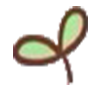
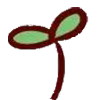
修改按钮特效

diff --git a/src/ui/gameButton.java b/src/ui/gameButton.java
@@ -22,7 +22,10 @@ public class gameButton extends MouseAdapter {
 	ImageIcon iconStartEntered = new ImageIcon("Graphics/Button/开始（大）.png");
 	ImageIcon iconRuleEntered = new ImageIcon("Graphics/Button/游戏规则（大）.png");
 	ImageIcon iconTeamEntered = new ImageIcon("Graphics/Button/制作团队（大）.png");
-	ImageIcon iconBack = new ImageIcon("Graphics/Button/退出.png");
+	ImageIcon iconBack = new ImageIcon("Graphics/Button/退出按钮 （小）.png");
+	ImageIcon iconBackEntered = new ImageIcon("Graphics/Button/退出按钮（大）.png");
+	ImageIcon iconReStart = new ImageIcon("Graphics/Button/重新开始（小）.png");
+	ImageIcon iconReStartEntered= new ImageIcon("Graphics/Button/重新开始 （大）.png");
 
 	public JButton startButton;
 	public JButton ruleButton;
@@ -94,25 +97,27 @@ public class gameButton extends MouseAdapter {
  * mapPanel上的按钮
  * @return
  */
-	//TODO 返回主界面 原图标分辨率低
+	//返回主界面
 	public JButton createStartBackButton() {
 		startBackButton = new JButton();
 		startBackButton.setBorder(null);
-		startBackButton.setBounds(1000, 400, 224, 336);
-//		startBackButton.setContentAreaFilled(false);
-//		startBackButton.setBorderPainted(false);
+		startBackButton.setBounds(950,550,250,150);
+		startBackButton.setContentAreaFilled(false);
+		startBackButton.setBorderPainted(false);
 		startBackButton.setIcon(iconBack);
+		startBackButton.setRolloverIcon(iconBackEntered);
 		startBackButton.addMouseListener(this);
 		return startBackButton;
 	}
-	//TODO 重新开始 加图标
+	//重新开始
 	public JButton createReStartButton() {
-		reStartButton = new JButton("重新开始");
+		reStartButton = new JButton();
 		reStartButton.setBorder(null);
-		reStartButton.setBounds(1000, 100, 300, 300);
+		reStartButton.setBounds(950,400,250,150);
 		reStartButton.setContentAreaFilled(false);
 		reStartButton.setBorderPainted(false);
-//		reStartButton.setIcon(iconBack);
+		reStartButton.setIcon(iconReStart);
+		reStartButton.setRolloverIcon(iconReStartEntered);
 		reStartButton.addMouseListener(this);
 		return reStartButton;
 	}
@@ -136,10 +141,11 @@ public class gameButton extends MouseAdapter {
 	public JButton createRuleBackButton() {
 		ruleBackButton = new JButton();
 		ruleBackButton.setBorder(null);
-		ruleBackButton.setBounds(1000, 50, 224, 336);
+		ruleBackButton.setBounds(0, 550, 250, 150);
 		ruleBackButton.setContentAreaFilled(false);
 		ruleBackButton.setBorderPainted(false);
 		ruleBackButton.setIcon(iconBack);
+		ruleBackButton.setRolloverIcon(iconBackEntered);
 		ruleBackButton.addMouseListener(this);
 		return ruleBackButton;
 	}
@@ -150,10 +156,11 @@ public class gameButton extends MouseAdapter {
 	public JButton createTeamBackButton() {
 		teamBackButton = new JButton();
 		teamBackButton.setBorder(null);
-		teamBackButton.setBounds(1000, 450, 224, 336);
+		teamBackButton.setBounds(950, 550, 250, 150);
 		teamBackButton.setContentAreaFilled(false);
 		teamBackButton.setBorderPainted(false);
 		teamBackButton.setIcon(iconBack);
+		teamBackButton.setRolloverIcon(iconBackEntered);
 		teamBackButton.addMouseListener(this);
 		return teamBackButton;
 	}

diff --git a/src/ui/teamPanel.java b/src/ui/teamPanel.java
@@ -11,5 +11,6 @@ public class teamPanel extends JPanel{
      @Override
      public void paintComponent(Graphics g){
         g.drawImage(TEAM, 0, 0,1200,700,null);
+        this.requestFocus();
    }
 }

diff --git a/src/ui/rulePanel.java b/src/ui/rulePanel.java
@@ -12,5 +12,6 @@ public class rulePanel extends JPanel {
      public void paintComponent(Graphics g){
 
         g.drawImage(RULE, 0, 0,1200,700,null);
+        this.requestFocus();
    }
 }
